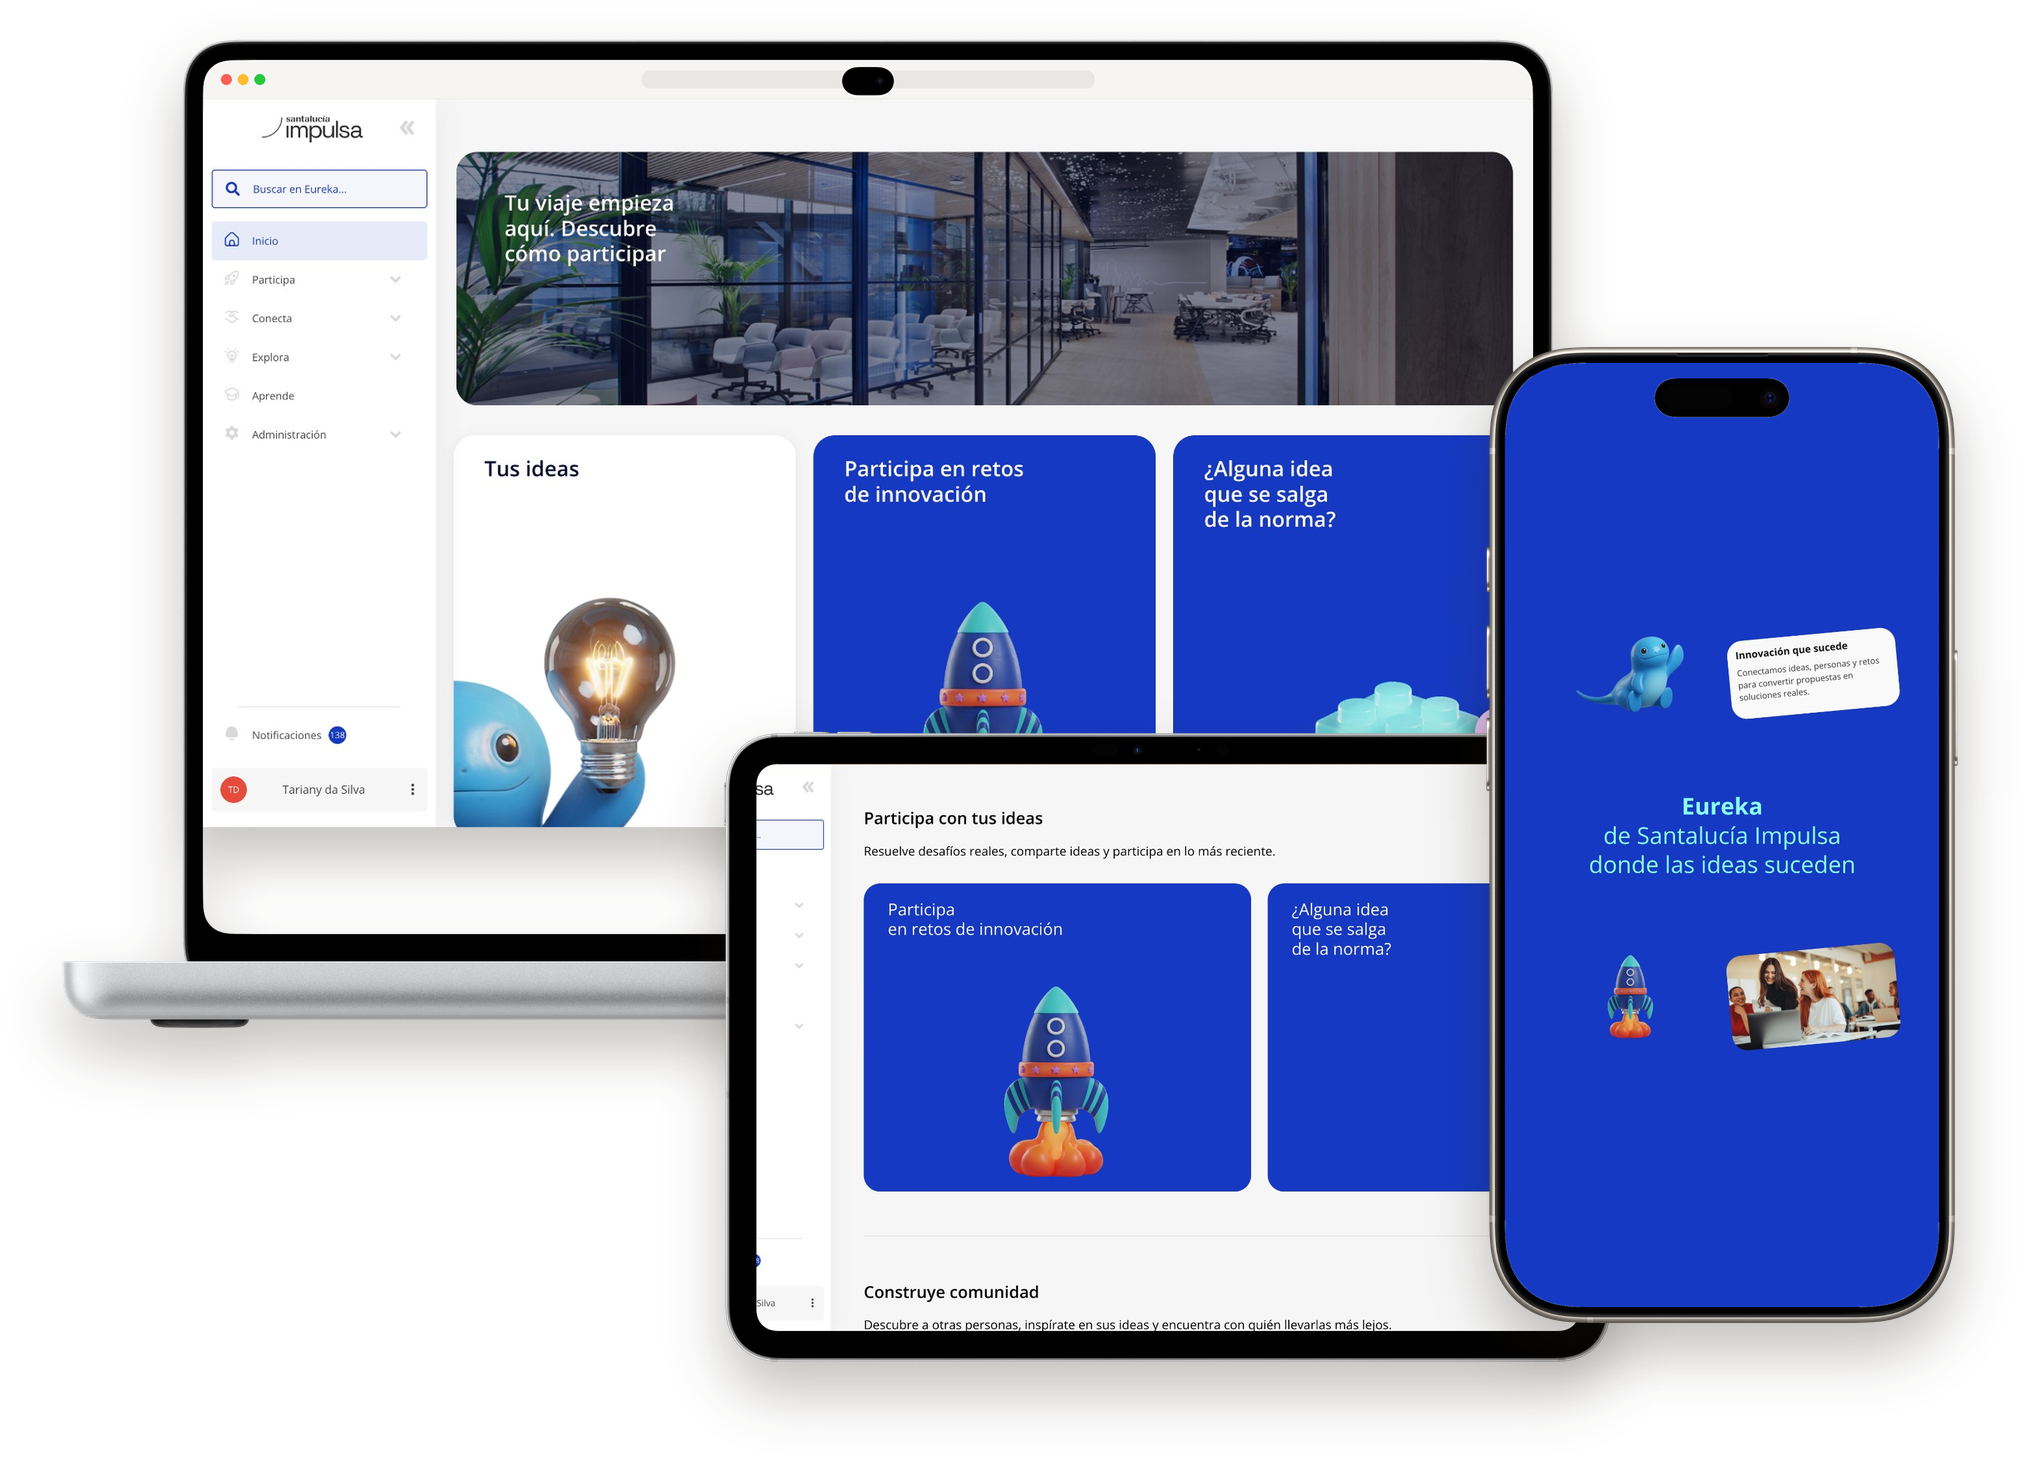
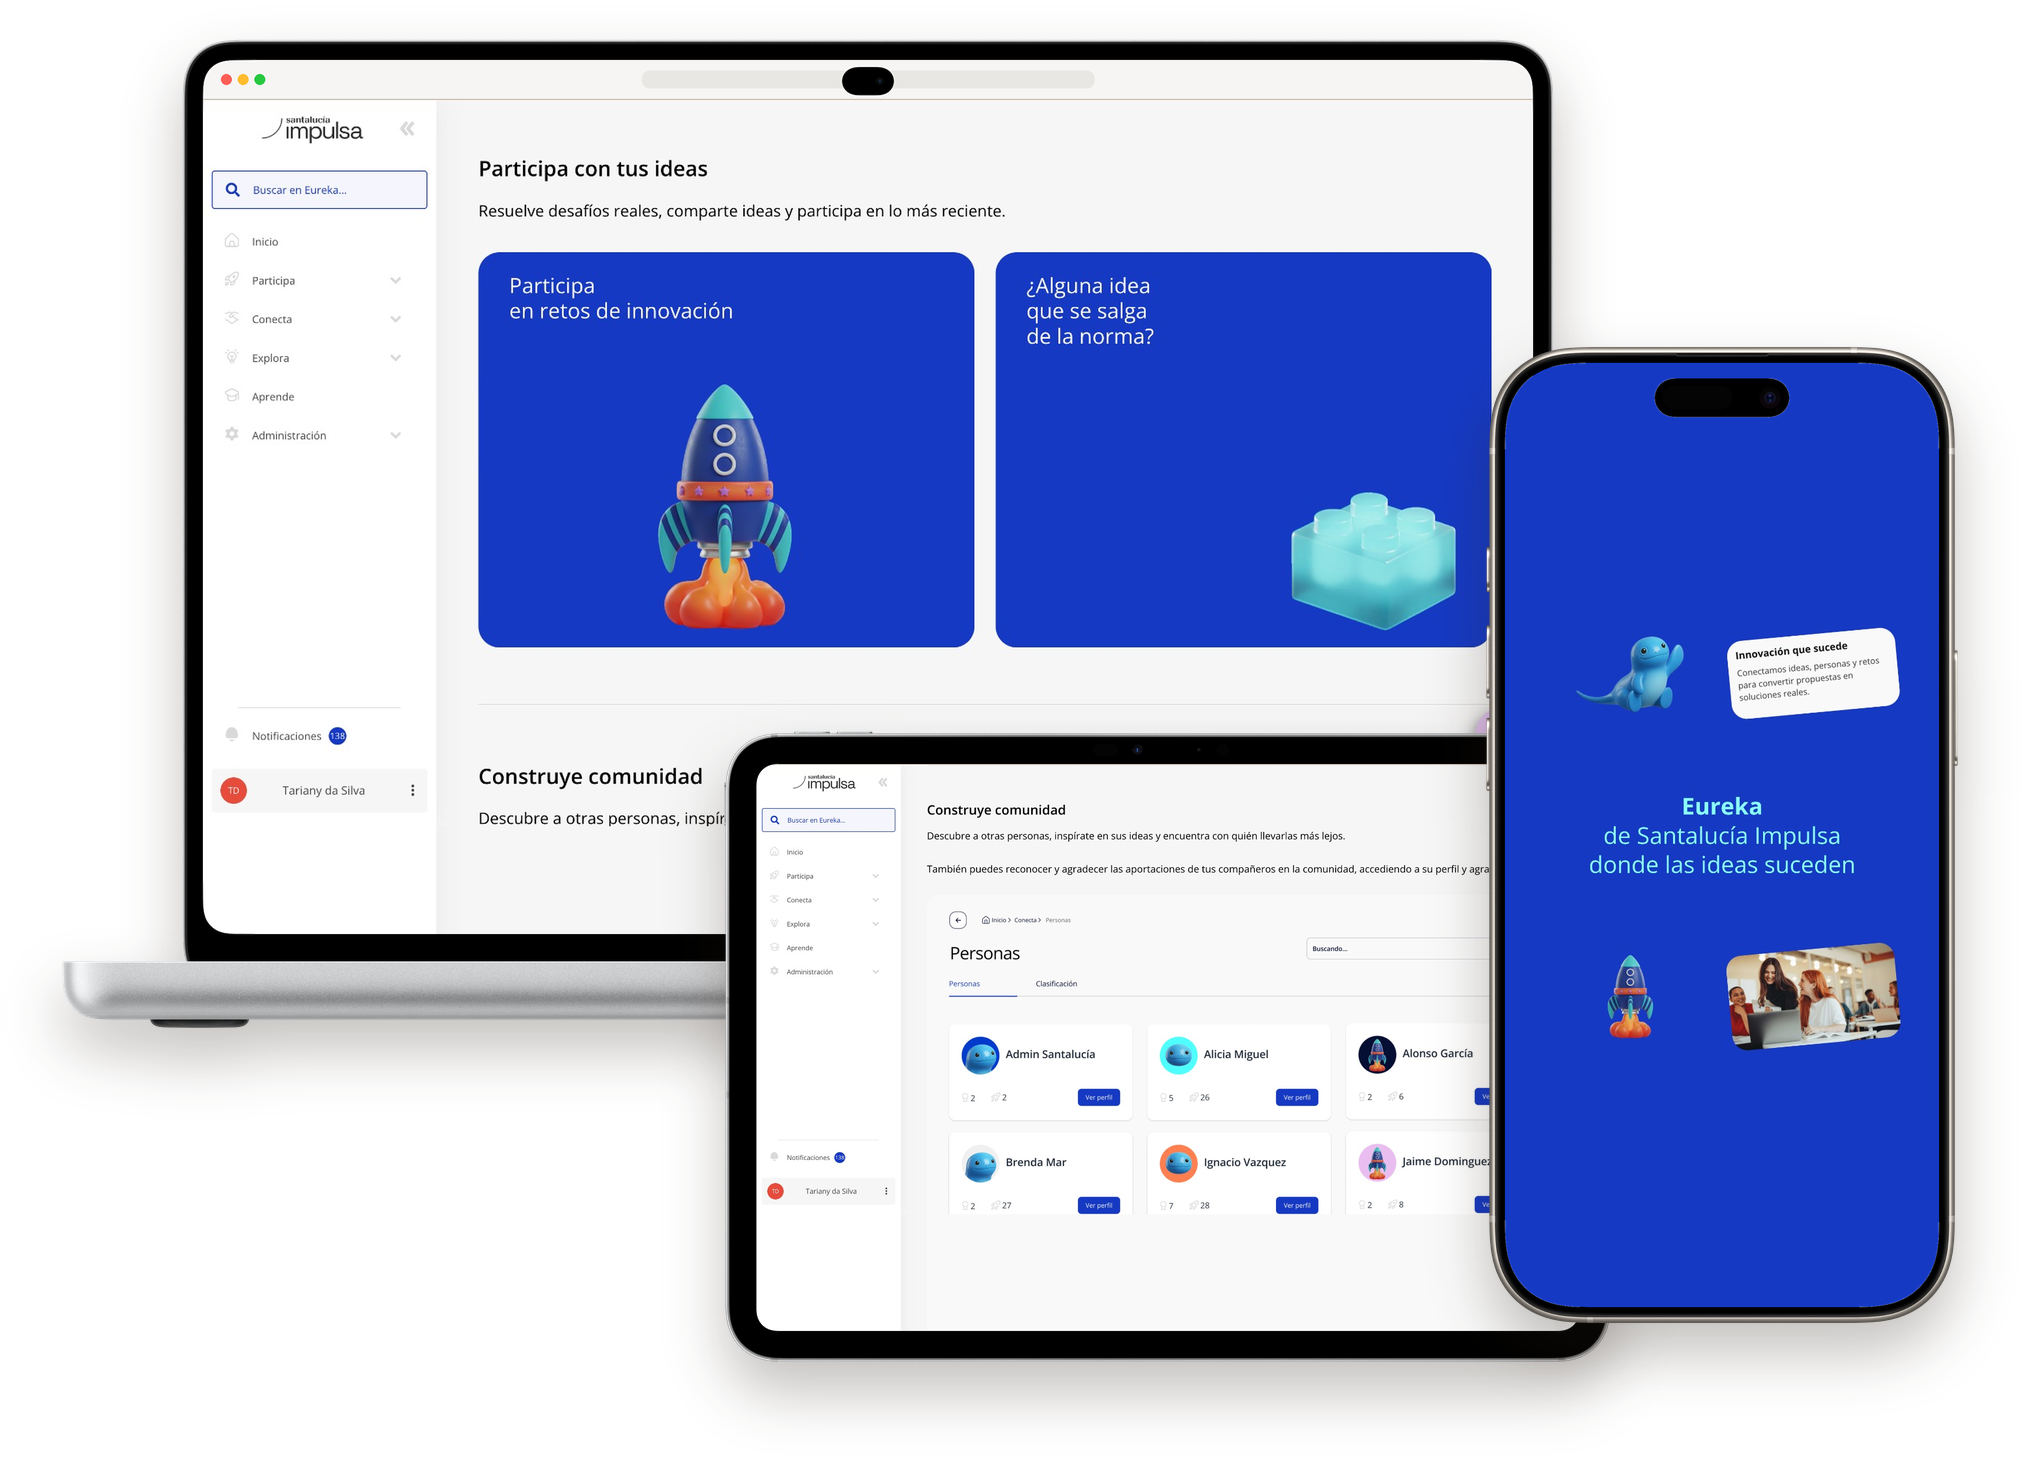
Innohub card: the real screenshots shown whole, extended only with their own background
Claude-Session: https://claude.ai/code/session_0125CzzT5S3G4ujjDNa4kPYe

diff --git a/scripts/compose-cover.py b/scripts/compose-cover.py
@@ -42,12 +42,40 @@ def status_bar(width, height):
     d.rounded_rectangle((bx + 4, by + 4, bx + int(bw * 0.7), by + bh - 4), radius=int(bh * 0.2), fill=(20, 20, 24, 255))
     return bar
 
-def device(frame_path, screen_path, offset_y=0, bar=0, status=0):
+def fit_width(shot, sw, sh):
+    # Show the whole screenshot across the screen width, nothing cropped; any space left below is filled
+    # with the colour of the screenshot's own bottom edge, so no content is invented.
+    scale = sw / shot.width
+    page = shot.resize((sw, round(shot.height * scale)), Image.LANCZOS)
+    if page.height >= sh:
+        return page.crop((0, 0, sw, sh))
+    # Pick the plainest row near the bottom (background only, no text) and repeat it downwards, so the
+    # sidebar and page background simply continue.
+    best, best_n = page.height - 1, None
+    for y in range(int(page.height * 0.8), page.height):
+        n = len(page.crop((0, y, sw, y + 1)).convert("RGB").getcolors(sw) or range(sw))
+        if best_n is None or n < best_n:
+            best, best_n = y, n
+    row = page.crop((0, best, sw, best + 1))
+    out = Image.new("RGBA", (sw, sh), (255, 255, 255, 255))
+    out.paste(page, (0, 0))
+    out.paste(row.resize((sw, sh - page.height)), (0, page.height))
+    return out
+
+def device(frame_path, screen_path, offset_y=0, bar=0, status=0, fit=None):
     frame = Image.open(frame_path).convert("RGBA")
     mask = screen_mask(frame)
     x0, y0, x1, y1 = mask.getbbox()
     shot = Image.open(screen_path).convert("RGBA")
     sw, sh = x1 - x0, y1 - y0
+    if fit == "width":
+        bh = round(sh * bar) if bar else 0
+        page = fit_width(shot, sw, sh - bh)
+        shot = Image.new("RGBA", (sw, sh), (255, 255, 255, 255))
+        if bh:
+            shot.paste(browser_bar(sw, bh), (0, 0))
+        shot.paste(page, (0, bh))
+        bar = 0
     if bar:
         # Fit the page under the toolbar.
         bh = round(sh * bar)
@@ -78,7 +106,7 @@ W, H = spec["size"]
 transparent = spec["background"] == "transparent"
 canvas = Image.new("RGBA", (W, H), (0, 0, 0, 0) if transparent else spec["background"])
 for d in spec["devices"]:
-    img = device(d["frame"], d["screen"], d.get("offset_y", 0), d.get("bar", 0), d.get("status", 0))
+    img = device(d["frame"], d["screen"], d.get("offset_y", 0), d.get("bar", 0), d.get("status", 0), d.get("fit"))
     img = img.resize((round(img.width * d["scale"]), round(img.height * d["scale"])), Image.LANCZOS)
     # Soft contact shadow under each device.
     # Built on a larger layer so the blur fades out instead of being cut off into a visible box.
